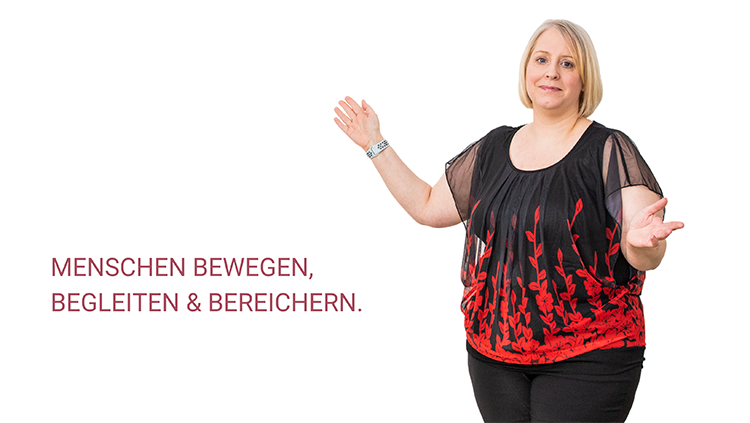
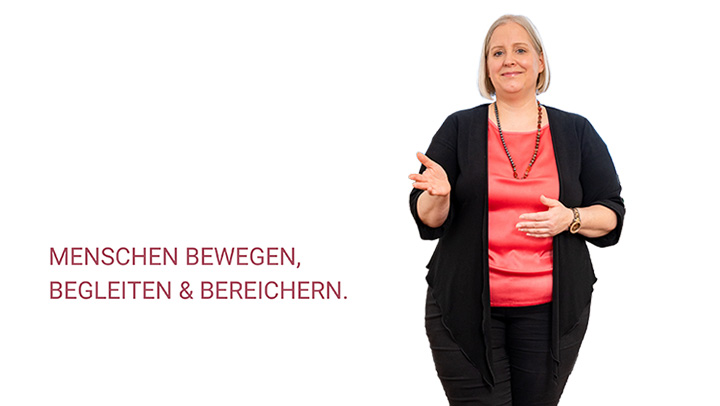
Startseite Foto mobil neu

diff --git a/layouts/shortcodes/banner.html b/layouts/shortcodes/banner.html
@@ -40,7 +40,7 @@
     @media (min-width: 768px) {
         .jumbo {
             display: block;
-            background-image: url('/img/silvia_start_2.png');            
+            background-image: url('/img/silvia_start.png');            
             height: 600px;
         }
 
